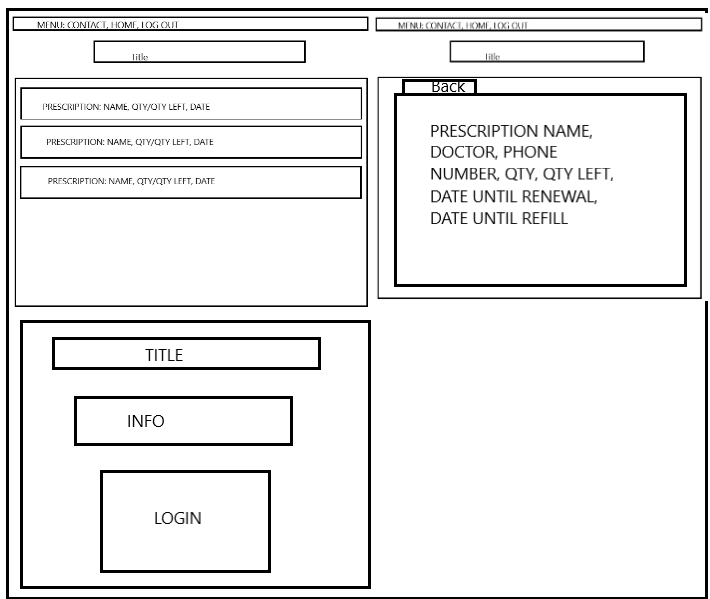
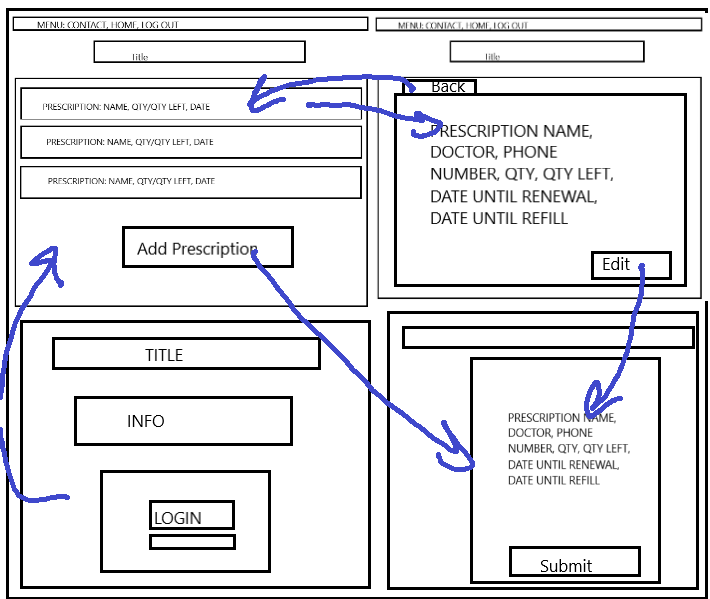
creating pages and functionality

diff --git a/src/STORE.js b/src/STORE.js
@@ -1,0 +1,98 @@
+export default {
+    "users": [
+        {
+            "user_id": "1",
+            "username": "username1",
+            "passw":"password1"
+        },
+        {
+            "user_id": "2",
+            "username": "username2",
+            "passw":"password2"
+        }
+    ],
+    "prescriptions": [
+        {
+            "user_id": "1",
+            "prescripts": [
+                {
+                    "id": 1,
+                    "prescription_name":"some Prescription1",
+                    "quantity":25,
+                    "doctor": "Dr. Doctor",
+                    "date_prescribed": "2020-5-5",
+                    "date_to_refill": "2020-6-5",
+                    "date_to_renew": "2021-5-5"
+                },
+                {
+                    "id": 2,
+                    "prescription_name":"some Prescription2",
+                    "quantity":25,
+                    "doctor": "Dr. Mister",
+                    "date_prescribed": "2020-5-5",
+                    "date_to_refill": "2020-6-5",
+                    "date_to_renew": "2021-5-5"
+                },
+                {
+                    "id": 3,
+                    "prescription_name":"some Prescription3",
+                    "quantity":25,
+                    "doctor": "Dr. Who",
+                    "date_prescribed": "2020-5-5",
+                    "date_to_refill": "2020-6-5",
+                    "date_to_renew": "2021-5-5"
+                },
+                {
+                    "id": 4,
+                    "prescription_name":"some Prescription4",
+                    "quantity":25,
+                    "doctor": "Dr. PHD",
+                    "date_prescribed": "2020-5-5",
+                    "date_to_refill": "2020-6-5",
+                    "date_to_renew": "2021-5-5"
+                }
+            ],
+        },
+        {
+            "user_id": "2",
+            "prescripts": [
+                {
+                    "id": 1,
+                    "prescription_name":"some Prescription1",
+                    "quantity":30,
+                    "doctor": "Dr. Doctor",
+                    "date_prescribed": "2020-5-5",
+                    "date_to_refill": "2020-6-5",
+                    "date_to_renew": "2021-5-5"
+                },
+                {
+                    "id": 2,
+                    "prescription_name":"some Prescription2",
+                    "quantity":30,
+                    "doctor": "Dr. Mister",
+                    "date_prescribed": "2020-5-5",
+                    "date_to_refill": "2020-6-5",
+                    "date_to_renew": "2021-5-5"
+                },
+                {
+                    "id": 3,
+                    "prescription_name":"some Prescription3",
+                    "quantity":30,
+                    "doctor": "Dr. Who",
+                    "date_prescribed": "2020-5-5",
+                    "date_to_refill": "2020-6-5",
+                    "date_to_renew": "2021-5-5"
+                },
+                {
+                    "id": 4,
+                    "prescription_name":"some Prescription4",
+                    "quantity":30,
+                    "doctor": "Dr. PHD",
+                    "date_prescribed": "2020-5-5",
+                    "date_to_refill": "2020-6-5",
+                    "date_to_renew": "2021-5-5"
+                }
+            ],
+        }
+    ],
+}   

diff --git a/src/List/List.js b/src/List/List.js
@@ -1,0 +1,97 @@
+import React, { Component } from 'react';
+
+export default class List extends Component {
+
+    // validation code here
+    static contextType = context;
+
+    state = {
+    //   
+    };
+
+    handleChangeInput = e => {
+        // const value = e.target.value;
+        // const id = e.target.id;
+        // if (id === 'login-username') {
+        //     this.setState({
+        //         username: value
+        //     });
+        // }
+        // if (id === 'login-password') {
+        //     this.setState({
+        //         password: value
+        //     });
+        // }
+    }
+
+    handleSubmit = e => {
+        // e.preventDefault();
+        // this.context.handleLoginSubmit(this.state.username, this.state.password);
+    }
+
+    // NEED TO DO: 
+    // handle count downs by date based off of QTY of pills or whatever, 
+    // edit buttons for prescription details,
+    // Create a page for editing the prescription and handle the submit
+
+    createDate=(date_entered)=>{
+        let dateArr = date_entered.split('-');
+        let date = [];
+        date.push(dateArr[0])
+        if (dateArr[1].length === 1) {
+            date.push('0' + dateArr[1]);
+        } else {
+            date.push(dateArr[1])
+        }
+        if (dateArr[2].length === 1) {
+            date.push('0' + dateArr[2]);
+        } else {
+            date.push(dateArr[2])
+        }
+        let fullDate = date.join('-');  
+
+        return fullDate
+    }
+
+    createListItems = (prescriptions) => {
+        return prescriptions.map((item, i) =>{
+            const { id, prescription_name, quantity, doctor, date_prescribed, date_to_refill, date_to_renew } = lineItem;
+
+            datePrescribed = createDate(date_prescribed);
+            dateRefill = createDate(date_to_refill);
+            dateRenew = createDate(date_to_renew);
+
+            return (
+                <li>
+                    <p>Item: {id}</p>
+                    <p>Prescription Name: {prescription_name}</p>
+                    <p>Quantity per Prescription: {quantity}</p>
+                    <p>Doctor: {doctor}</p>
+                    <p>Prescribed on: {datePrescribed}</p>
+                    <p>Date to Refill: {dateRefill}</p>
+                    <p>Date to Renew: {dateRenew}</p>
+                    <button>Edit</button>
+                </li>
+            )
+        })
+    }
+
+    render() {
+        return (
+            <div className="component-div">
+                <h2>Current Prescription List</h2>
+                <ul>
+                    {this.createListItems(this.context.prescriptions)}
+                </ul>
+                <br />
+                <form onSubmit={this.handleSubmit}>
+                    <div>
+                        <label htmlFor="login-password">Password: </label>
+                        <input className="login-password" type="password" name='login-password' id='login-password' />
+                    </div>
+                    <button type='submit'>Login</button>
+                </form>
+            </div>
+        )
+    }
+}

diff --git a/src/App.js b/src/App.js
@@ -1,25 +1,98 @@
-import logo from './logo.svg';
+// import logo from './logo.svg';
 import './App.css';
+import React, { Component } from 'react';
+import context from './context';
+// import config from './config';
+import STORE from './STORE';
+import Login from './Login/Login.js';
+import List from './List/List.js';
 
-function App() {
-  return (
-    <div className="App">
-      <header className="App-header">
-        <img src={logo} className="App-logo" alt="logo" />
-        <p>
-          Edit <code>src/App.js</code> and save to reload.
-        </p>
-        <a
-          className="App-link"
-          href="https://reactjs.org"
-          target="_blank"
-          rel="noopener noreferrer"
-        >
-          Learn React
-        </a>
-      </header>
-    </div>
-  );
+export default class App extends Component{
+  
+  //need to set up this state based off of STORE.js
+  static contextType = context;
+  constructor(props) {
+    super(props);
+    this.state = {
+      user_id: '',
+      prescriptions: []
+    }
+  }
+
+  handleLoginSubmit = (username, password){
+    const object = {
+      username: username,
+      password: password
+    };
+    for (i=0; STORE.users.length; i++) {
+      if (username == STORE.users[i].username && password == STORE.users[i].password) {
+        const user_id = STORE.users[i].user_id;
+        this.setState({
+          user_id: STORE.users[i].user_id,
+          prescriptions: STORE.prescriptions[user_id].prescripts
+        });
+      }
+    }
+  }
+
+  // componentDidMount() {
+    
+  // }
+
+  createLanding(){
+    if (this.state.user_id == ''){
+      return (
+        <Login />
+      )
+    }
+  }
+
+  createMainRoutes(){
+    if (this.state.user_id != ''){
+      return (
+        <List />
+      )
+    }
+  }
+  
+  render(){
+
+    const contextValue = {
+      user_id: this.state.user_id,
+      prescriptions: this.state.prescriptions,
+      handleLoginSubmit: this.handleLoginSubmit
+    };
+
+    let menu = this.state.menu === 'hide'
+      ? <div></div>
+      : <div className="menu">
+        {this.createNavRoutes()}
+      </div>
+    let bigMenu = this.state.click === true 
+      ? <div className="big-screen">
+          {this.createNavRoutes()}
+        </div>
+      : <div></div>
+
+    return (
+      <context.Provider value={contextValue}>
+        <div className="app">
+          <header><h1>Stock'Em!</h1></header>
+          <nav role="navigation">
+            <div className="small-screen">
+              {this.hamburgerClick()}
+              {menu}  
+            </div>
+            {bigMenu}
+          </nav>
+          <main>
+            {this.createLanding()}
+            {this.createMainRoutes()}
+          </main>
+        </div>
+      </context.Provider>
+    )
+  }
 }
 
-export default App;
+export default withRouter(App)

diff --git a/src/CreateDate/CreateDate.js b/src/CreateDate/CreateDate.js
@@ -1,0 +1,31 @@
+import React, { Component } from 'react';
+
+export default class CreateDate extends Component {
+    createDate=()=>{
+        let dateArr = date_entered.split('-');
+        let date = [];
+        date.push(dateArr[0])
+        if (dateArr[1].length === 1) {
+            date.push('0' + dateArr[1]);
+        } else {
+            date.push(dateArr[1])
+        }
+        if (dateArr[2].length === 1) {
+            date.push('0' + dateArr[2]);
+        } else {
+            date.push(dateArr[2])
+        }
+        let fullDate = date.join('-');  
+
+        this.setState({
+            fullDate: fullDate
+        });
+    }
+    
+
+    render() {
+        return (
+            <p>{this.state.fullDate}</p>
+        )
+    }
+}

diff --git a/src/context.js b/src/context.js
@@ -1,0 +1,9 @@
+import React from 'react'
+
+const context = React.createContext({
+  user_id: [],
+  prescriptions: [],
+  handleLoginSubmit: ()=>{}
+})
+
+export default context
